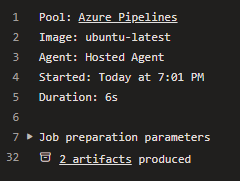
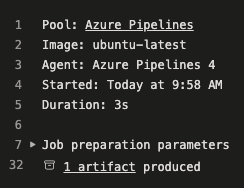
finished

diff --git a/_posts/2025-06-30-pipeline-artifacts-download.md b/_posts/2025-06-30-pipeline-artifacts-download.md
@@ -16,13 +16,29 @@ This is the second blog that explores various ways to use artifacts in Azure Dev
 
 > I assume you have a basic understanding of Azure DevOps pipelines and the terminology. In an earlier blog there's a [brief lesson](/2024/08/10/typical-pipeline.html#folder-structure) on pipelines.
 
+## Publishing for This Blog
+
+For demonstrating downloading, the following snippet publishes two files. It is run in a loop setting `env` to `a`, then `b`
+
+```yaml
+- pwsh: |
+    "this is from ${{ env }} at $((get-date).tostring("mm:ss.fff"))" > $(Agent.TempDirectory)/result.txt
+    "this is from ${{ env }} at $((get-date).tostring("mm:ss.fff"))" > $(Agent.TempDirectory)/${{env}}_result.txt
+    Write-Host "##vso[artifact.upload artifactname=${{env}}]$(Agent.TempDirectory)/${{env}}_result.txt"
+    Write-Host "##vso[artifact.upload artifactname=${{env}}]$(Agent.TempDirectory)/result.txt"
+```
+
+The resulting artifacts will be as follows:
+
+![Links for artifacts](/assets/images/artifacts/artifact-link-0.png)
+
 ## Downloading Artifacts from the Portal
 
-If you want to download an artifact from a pipeline to your machine, there are several links on the pipeline's summary page. In the `Related` section, the `4 published` is a link to artifacts, as well as the `2 artifacts` link in each job.
+To download an artifact from a pipeline to your machine, there are links on the pipeline's summary page. In the `Related` section, the `2 published` is a link to artifacts, as well as the `1 artifact` link in each job.
 
 ![Links for artifacts](/assets/images/artifacts/artifact-link-1.png)
 
-Then when you open a job, there is another link to the artifacts.
+Then, when you open a job, there is another link to the artifacts.
 
 ![Links within a job](/assets/images/artifacts/artifact-link-2.png)
 
@@ -38,10 +54,10 @@ The previous post has a [section](https://seekatar.github.io/2025/05/05/pipeline
 
 ## Downloading Artifacts in a Pipeline
 
-There are two ways to download artifacts from an Azure DevOps pipeline:
+There are two ways to download pipeline artifacts from an Azure DevOps pipeline:
 
 - Use the [DownloadPipelineArtifact](https://learn.microsoft.com/en-us/azure/devops/pipelines/tasks/reference/download-pipeline-artifact-v2?view=azure-pipelines) task.
-- Use the [download](https://learn.microsoft.com/en-us/azure/devops/pipelines/yaml-schema/steps-download?view=azure-pipelines) keyword in the YAML pipeline, which is a wrapper for `DownloadPipelineArtifact` as well as [DownloadBuildArtifacts](https://learn.microsoft.com/en-us/azure/devops/pipelines/tasks/reference/download-build-artifacts-v1) and [DownloadFileshareArtifacts](https://learn.microsoft.com/en-us/azure/devops/pipelines/tasks/reference/download-fileshare-artifacts-v1?view=azure-pipelines) task. The latter two are not discussed in this blog.
+- Use the [download](https://learn.microsoft.com/en-us/azure/devops/pipelines/yaml-schema/steps-download?view=azure-pipelines) keyword, which is a wrapper for `DownloadPipelineArtifact` as well as [DownloadBuildArtifacts](https://learn.microsoft.com/en-us/azure/devops/pipelines/tasks/reference/download-build-artifacts-v1) and [DownloadFileshareArtifacts](https://learn.microsoft.com/en-us/azure/devops/pipelines/tasks/reference/download-fileshare-artifacts-v1?view=azure-pipelines) task.
 
 They both will download artifacts, but the latter is more generic, so I usually use `DownloadPipelineArtifact` to be explicit about what I'm doing.
 
@@ -49,9 +65,99 @@ They both will download artifacts, but the latter is more generic, so I usually 
 
 The [DownloadPipelineArtifact](https://learn.microsoft.com/en-us/azure/devops/pipelines/tasks/reference/download-pipeline-artifact-v2?view=azure-pipelines) task.
 
+The simplest way to download all the artifacts is to add the task with no parameters.. It will download each artifact into a subfolder of `$(Pipeline.Workspace)`, which will be something like `/home/vsts/work/1`
+
 ```yaml
 - task: DownloadPipelineArtifact@1
-  inputs:
-    targetPath: '$(Agent.TempDirectory)/result_pub.txt'
-    artifact: 'publish_a_pub_1'
 ```
+
+Given the artifacts published above, the files will be in a subfolder with the artifact name like this:
+
+```text
+/home/vsts/work/1/a/a_result.txt
+/home/vsts/work/1/a/result.txt
+/home/vsts/work/1/b/b_result.txt
+/home/vsts/work/1/b/result.txt
+```
+
+To only download `a` into `$(Pipeline.Workspace)`
+
+```yaml
+- task: DownloadPipelineArtifact@2
+  inputs:
+    artifactName: a
+```
+
+The files will not be in a subfolder, but directly in `$(Pipeline.Workspace)`:
+
+```text
+/home/vsts/work/1/result.txt
+/home/vsts/work/1/a_result.txt
+```
+
+And to put them into a specific folder, you can use the `downloadPath`:
+
+```yaml
+- task: DownloadPipelineArtifact@2
+  inputs:
+    artifactName: b
+    targetPath: test
+```
+
+The files will be in a `test` folder:
+
+```text
+/home/vsts/work/1/s/test/b_result.txt
+/home/vsts/work/1/s/test/result.txt
+```
+
+You can also filter the files to pull from the artifact using `itemPattern` using [pattern matching](https://learn.microsoft.com/en-us/azure/devops/pipelines/tasks/file-matching-patterns?view=azure-devops). Note that the path will include the artifact name, so you can use `**/pattern` or prefix with the name, as below.
+
+```yaml
+- task: DownloadPipelineArtifact@2
+  inputs:
+    artifactName: b
+    targetPath: test
+    itemPattern: b/result.*
+```
+
+Only the one file will be in a `test` folder:
+
+```text
+/home/vsts/work/1/s/test/result.txt
+```
+
+## Downloading Artifacts from a Different Pipeline
+
+I've found that usually I'm in the same pipeline when I download an artifact, but you can also download artifacts from a different pipeline. In the yaml below, I trigger this pipeline from the one that created the artifacts (`test-artifact`), and then download `a` to the `test` folder. As you can see, there are many more parameters required in this case, and more optional ones not shown.
+
+```yaml
+resources:
+ pipelines:
+   - pipeline: test-artifact
+     source: test-artifact
+     branch: test-pipeline
+     trigger: true
+
+steps:
+  - task: DownloadPipelineArtifact@2
+    inputs:
+      buildType: specific
+      buildVersionToDownload: latest
+      definition: 55 # pipelineId
+      project: PipelineTest
+      branchName: test-pipeline
+      targetPath: test
+      artifactName: a
+```
+
+Which results in the following files.
+
+```text
+/home/vsts/work/1/s/test/a_result.txt
+/home/vsts/work/1/s/test/result.txt
+```
+
+## Summary
+
+There are several scenarios where one stage publishes files that downstream ones consume. In this blog, I covered downloading them within a pipeline, as well as from a different pipeline.
